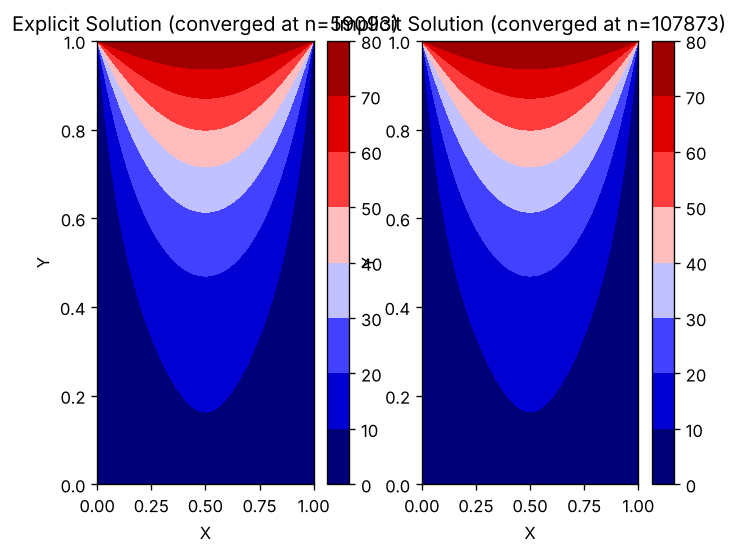
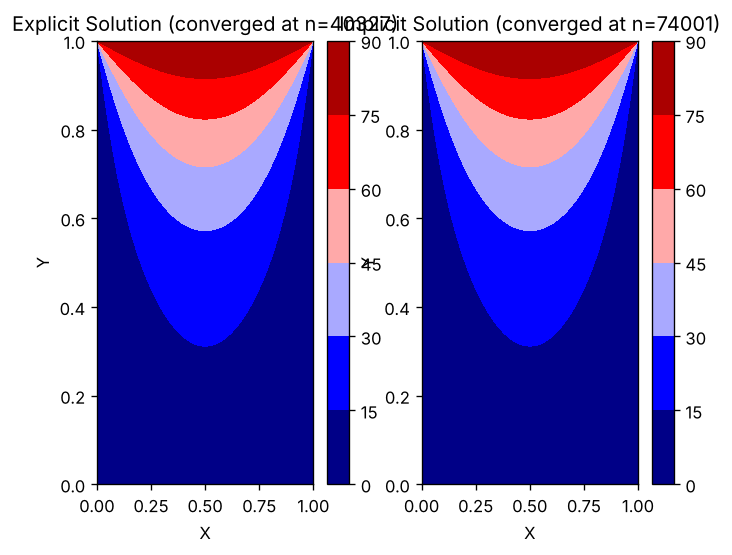
Soften parameter deltas and re-run four experiments
2D conduction: hot wall 90 C, nx 120
Couette flow:  Re 200
Heat exchanger: Re_hot/Re_cold 20, k_s 385 (copper)
Centrifugal pump: rpm 2800, swirl 0.82
Airfoil:       aoa_list [4, 8]
Right cylinder: Re 120

Figures regenerated for 2D conduction, Couette flow, Heat exchanger and
centrifugal pump. Airfoil and right cylinder are still running; their
figures remain the originals for now.

Still stale: centrifugal pump Figure_4.png, Heat exchanger Figure_2..5
(produced by parametric.py), Couette Figure_2.png (produced by
simtemp.py). Those scripts have not been re-run. All experiment READMEs
still quote the original numbers.

Claude-Session: https://claude.ai/code/session_01QU635ZFGv63fxyovvNRbbY

diff --git a/right cylinder/sim.py b/right cylinder/sim.py
@@ -24,7 +24,7 @@ Cy = Ly/2
 Cr = 0.5*D             # radius = D/2
 nit = 50000
 Co = 0.1
-Re = 150
+Re = 120
 u_inlet = 1            # U, nondimensional
 dt = Co * min(dx, dy) / u_inlet     # 0.0125 (in units of D/U)
 eta = max(0.5 * dt, 1e-5)           # nondimensional penalty parameter
@@ -150,7 +150,7 @@ if np.max(np.abs(cl)) > 1e-3:               # only if Cl actually oscillates
     amp = np.abs(np.fft.rfft(cl, n=npad))
     f = freq[np.argmax(amp[1:]) + 1]        # skip the zero-frequency bin
     St = f*D/u_inlet
-    print(f"Shedding frequency f = {f:.4f}, St = {St:.4f}  (literature ~0.183 at Re = 150)")
+    print(f"Shedding frequency f = {f:.4f}, St = {St:.4f}  (literature ~0.173 at Re = 120)")
 
     plt.figure(figsize=(6, 3))
     plt.plot(freq, amp)

diff --git a/Heat exchanger/sim.py b/Heat exchanger/sim.py
@@ -33,10 +33,10 @@ dy_cold = Dy_cold/(ny_cold-1)
 # Flow and Heat properties
 # Water fluid and copper solid
 k_f = 0.6 # thermal conductivity of water [W/mK]
-k_s = 237 # thermal conductivity of aluminium [W/mK]
+k_s = 385 # thermal conductivity of copper [W/mK]
 Pr = 7.0 # Approximate Prandtl number for water
-Re_hot = 50 # Reynolds number of hot fluid
-Re_cold = 50 # Reynolds number of cold fluid
+Re_hot = 20 # Reynolds number of hot fluid
+Re_cold = 20 # Reynolds number of cold fluid
 T_hot_in = 5.0 # non-dimensional hot fluid inlet temperature
 T_cold_in = -5.0 # non-dimensional cold fluid inlet temperature
 dp_cold = 1.0 # pressure drop in cold channel

diff --git a/airfoil/sim.py b/airfoil/sim.py
@@ -27,7 +27,7 @@ dt = Co * min(dx, dy) / u_inlet
 eta = 0.1*dt           # nondimensional penalty parameter
 alpha_p = 1.0          # time-marching: take the full pressure correction
 tol_cl = 1e-6          # steady state: Cl change over 500 steps below this
-aoa_list = [0, 4, 8, 12]      # angles of attack in degrees
+aoa_list = [4, 8]      # angles of attack in degrees
 
 def apply_boundary(u, v, p):
     # left (inlet)

diff --git a/2D conduction/sim.py b/2D conduction/sim.py
@@ -33,7 +33,7 @@ import numpy as np
 from matplotlib import cm, pyplot as plt
 
 L = 1
-nx = 150
+nx = 120
 dx = L/nx
 Fo = 0.25
 # alpha = 1
@@ -41,7 +41,7 @@ Fo = 0.25
 nit = 1000000
 
 def apply_boundary(T):
-    T[-1, :] = 80
+    T[-1, :] = 90
     T[:, 0] = 0
     T[:, -1] = 0
     T[0, :] = T[1, :]

diff --git a/centrifugal pump/sim.py b/centrifugal pump/sim.py
@@ -18,8 +18,8 @@ ntheta = 100
 dtheta = 2*np.pi/(ntheta-1)
 g = 9.81
 # We have a rectangle => nr x ntheta
-rpm = 2000
-swirl = 0.80 # swirl fraction (water speed/wheel speed)
+rpm = 2800
+swirl = 0.82 # swirl fraction (water speed/wheel speed)
 omega = 2*np.pi*rpm/60
 nit = 20000
 h_wall = 120

diff --git a/Couette flow/sim.py b/Couette flow/sim.py
@@ -24,7 +24,7 @@ ny = 100
 H = 1
 U = 1
 T = 1
-Re = 500
+Re = 200
 dy = H / ny
 nit = 10000000
 F = 0.5 # something like a CFL number
